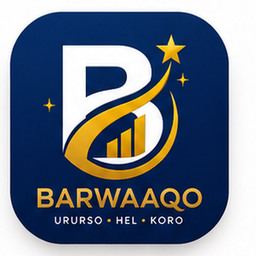
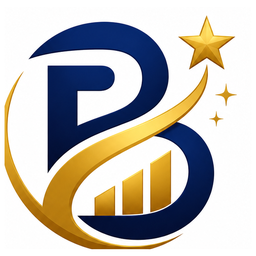
شعار Barwaaqo الجديد، وسلّة محذوفات في لوحة الإدارة
الحذف في هذا المشروع نوعان: ما أُضيف من اللوحة يُمحى، وما جاء من
الملفات يُخفى — ولو مُحيت وثيقته لعاد من الملفات بعد كل حذف. وكان
المخفيّ مبعثراً: تُرجعينه من تبويبه وحده إن تذكّرتِ أين حذفتِه.

صار يجتمع في سلّة واحدة عبر المنتجات والشرائح وطرق الدفع والأقسام،
بزرّ استعادة يرفع علامة الإخفاء وحدها ولا يلمس بقيّة الحقول، ويُفرّغ
الذاكرتين المؤقّتتين وإلا بقي المستعاد غائباً دقيقة.

Claude-Session: https://claude.ai/code/session_01FQB57LEAFkfTG56LVQahdS

diff --git a/components/admin/RecycleBin.tsx b/components/admin/RecycleBin.tsx
@@ -1,0 +1,90 @@
+"use client";
+
+import { useCallback, useEffect, useState } from "react";
+import { readBin, restoreItem, type BinItem } from "@/lib/recycle";
+import { clearPayCache } from "@/lib/payments";
+import { clearItemsCache } from "@/lib/items";
+import { IconSpinner } from "@/components/icons";
+
+/**
+ * سلّة المحذوفات — كل ما أزلتِه من المتجر، في مكان واحد، بزرّ استعادة.
+ *
+ * ⚠ ما يظهر هنا **ليس محذوفاً من قاعدة البيانات**: هو مخفيّ عن الزبون
+ *    وحده. أمّا ما أضفتِه أنتِ من اللوحة وحذفتِه فقد مُحي نهائياً ولا
+ *    يظهر هنا — لأن استعادته تعني إعادة إنشائه لا رفع علامة.
+ */
+export default function RecycleBin() {
+  const [rows, setRows] = useState<BinItem[] | null>(null);
+  const [busy, setBusy] = useState<string | null>(null);
+  const [note, setNote] = useState<string | null>(null);
+
+  const load = useCallback(async () => setRows(await readBin()), []);
+
+  useEffect(() => {
+    void load();
+  }, [load]);
+
+  async function restore(x: BinItem) {
+    const key = `${x.col}/${x.id}`;
+    setBusy(key);
+    const ok = await restoreItem(x.col, x.id);
+    setBusy(null);
+    if (!ok) return setNote("Could not restore — check your access.");
+    // الذاكرتان المؤقّتتان تُفرَّغان وإلا بقي المستعاد غائباً دقيقة
+    clearPayCache();
+    clearItemsCache();
+    setNote(`${x.name} is back in the store.`);
+    void load();
+  }
+
+  return (
+    <div className="flex flex-col gap-3">
+      <p className="rounded-card border border-dashed border-line p-3 text-sm text-muted">
+        Everything you removed from the store — hidden from customers, not
+        deleted. Press Restore to bring it back. Items you created here and
+        deleted are gone for good and are not listed.
+      </p>
+
+      {note && (
+        <p className="rounded-card border border-line bg-surface p-2.5 text-sm font-medium">
+          {note}
+        </p>
+      )}
+
+      {rows === null ? (
+        <p className="flex items-center gap-2 text-sm text-muted">
+          <IconSpinner className="size-4" /> Loading…
+        </p>
+      ) : rows.length === 0 ? (
+        <p className="rounded-card border border-dashed border-line p-6 text-center text-sm text-muted">
+          The bin is empty — nothing is hidden from the store.
+        </p>
+      ) : (
+        rows.map((x) => {
+          const key = `${x.col}/${x.id}`;
+          return (
+            <article
+              key={key}
+              className="flex items-center gap-3 rounded-card border border-line bg-surface p-3"
+            >
+              <span className="min-w-0 flex-1">
+                <span className="block truncate font-bold text-muted line-through">
+                  {x.name}
+                </span>
+                <span className="block text-xs text-muted">{x.kind}</span>
+              </span>
+              <button
+                type="button"
+                disabled={busy === key}
+                onClick={() => void restore(x)}
+                className="min-h-11 shrink-0 rounded-card border border-line px-4 font-bold disabled:opacity-50"
+              >
+                {busy === key ? "…" : "Restore"}
+              </button>
+            </article>
+          );
+        })
+      )}
+    </div>
+  );
+}

diff --git a/lib/recycle.ts b/lib/recycle.ts
@@ -1,0 +1,88 @@
+/**
+ * سلّة المحذوفات — كل ما أُزيل من المتجر ولم يُمحَ نهائياً.
+ *
+ * ⚠ **لماذا تُوجد أصلاً؟** لأن الحذف في هذا المشروع نوعان:
+ *    ما أضافته صاحبة المتجر من اللوحة يُمحى نهائياً، أمّا ما جاء من
+ *    الملفات (باقة أصلية · طريقة دفع · شريحة) **فلا يُمحى بل يُخفى** —
+ *    ولو مُحيت وثيقته لعاد من الملفات بعد كل حذف.
+ *
+ *    وهذا المخفيّ كان مبعثراً: تُرجعينه من تبويبه وحده إن تذكّرتِ أين
+ *    حذفتِه. هنا يجتمع كلّه في مكان واحد بزرّ استعادة.
+ */
+
+import { collection, doc, getDocs, setDoc } from "firebase/firestore";
+import { fbDb } from "./firebase";
+import { withTimeout } from "./timeout";
+
+/** المجموعات التي يمكن أن يُخفى فيها شيء */
+export const BINS = [
+  { col: "packages", label: "Product" },
+  { col: "products", label: "Product" },
+  { col: "sections", label: "Section" },
+  { col: "slides", label: "Banner slide" },
+  { col: "payments", label: "Payment method" },
+] as const;
+
+export type BinItem = {
+  col: string;
+  id: string;
+  kind: string;
+  /** اسمٌ يعرفه صاحب المتجر — من أي حقل اسم متاح */
+  name: string;
+};
+
+const nameOf = (v: Record<string, unknown>, id: string) => {
+  const t = v.title;
+  if (typeof t === "string" && t.trim()) return t;
+  if (t && typeof t === "object") {
+    const m = t as Record<string, string>;
+    const s = m.ar || m.en || m.so;
+    if (s) return s;
+  }
+  for (const k of ["nameEn", "nameAr", "name", "sub"]) {
+    const s = v[k];
+    if (typeof s === "string" && s.trim()) return s;
+  }
+  return id;
+};
+
+/**
+ * كل المخفيّ عبر المجموعات.
+ * ⚠ لا يرمي خطأً: مجموعةٌ تعذّرت قراءتها تُتجاوز، فلا تختفي السلّة كلّها
+ *    بسبب واحدة.
+ */
+export async function readBin(): Promise<BinItem[]> {
+  const db = fbDb();
+  if (!db) return [];
+
+  const out: BinItem[] = [];
+
+  await Promise.all(
+    BINS.map(async (b) => {
+      try {
+        const snap = await withTimeout(getDocs(collection(db, b.col)));
+        snap.docs.forEach((d) => {
+          const v = d.data() as Record<string, unknown>;
+          if (v.hidden === true)
+            out.push({ col: b.col, id: d.id, kind: b.label, name: nameOf(v, d.id) });
+        });
+      } catch {
+        /* مجموعة تعذّرت — نكمل بالباقي */
+      }
+    }),
+  );
+
+  return out.sort((a, b) => a.kind.localeCompare(b.kind) || a.name.localeCompare(b.name));
+}
+
+/** الاستعادة: رفع علامة الإخفاء وحدها — لا تلمس بقيّة الحقول */
+export async function restoreItem(col: string, id: string): Promise<boolean> {
+  const db = fbDb();
+  if (!db) return false;
+  try {
+    await setDoc(doc(db, col, id), { hidden: false }, { merge: true });
+    return true;
+  } catch {
+    return false;
+  }
+}

diff --git a/components/admin/AdminTabs.tsx b/components/admin/AdminTabs.tsx
@@ -14,6 +14,7 @@ import SiteEditor from "./SiteEditor";
 import PaymentsEditor from "./PaymentsEditor";
 import TextsEditor from "./TextsEditor";
 import Analytics from "./Analytics";
+import RecycleBin from "./RecycleBin";
 import { useAccess } from "@/lib/adminAccess";
 import type { Perm } from "@/lib/staff";
 
@@ -59,6 +60,7 @@ const GROUPS: { label: string; items: Item[] }[] = [
     items: [
       { v: "points", label: "Points", perm: "points" },
       { v: "store", label: "Store info", owner: true },
+      { v: "bin", label: "Recycle bin", owner: true },
       { v: "staff", label: "Helpers", owner: true },
     ],
   },
@@ -118,6 +120,8 @@ export default function AdminTabs() {
         <PointsEditor />
       ) : current === "store" ? (
         <SiteEditor />
+      ) : current === "bin" ? (
+        <RecycleBin />
       ) : current === "staff" ? (
         <StaffEditor />
       ) : (

diff --git a/components/admin/AdminMenu.tsx b/components/admin/AdminMenu.tsx
@@ -6,6 +6,7 @@ import { useAuth } from "@/lib/auth";
 import Logo from "@/components/Logo";
 import {
   IconCart,
+  IconTrash,
   IconChat,
   IconClose,
   IconDevice,
@@ -31,6 +32,7 @@ export type AdminTab =
   | "payments"
   | "texts"
   | "analytics"
+  | "bin"
   | "points"
   | "faq"
   | "staff";
@@ -46,6 +48,7 @@ const ICONS: Record<AdminTab, (p: { className?: string }) => React.ReactElement>
   payments: IconCart,
   texts: IconDoc,
   analytics: IconDevice,
+  bin: IconTrash,
   points: IconUser,
   faq: IconChat,
   staff: IconUser,
